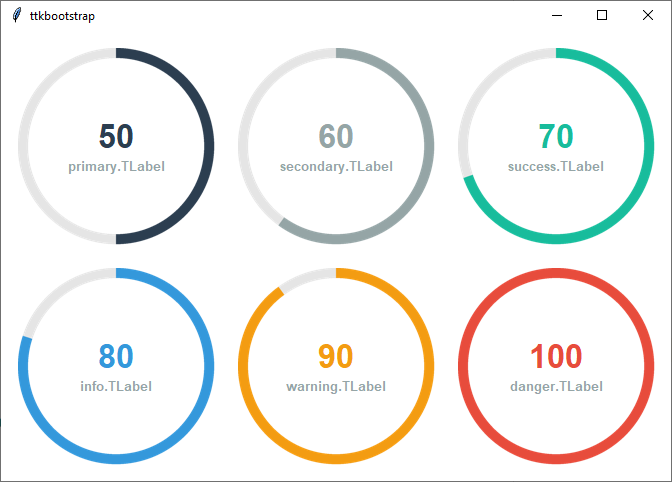
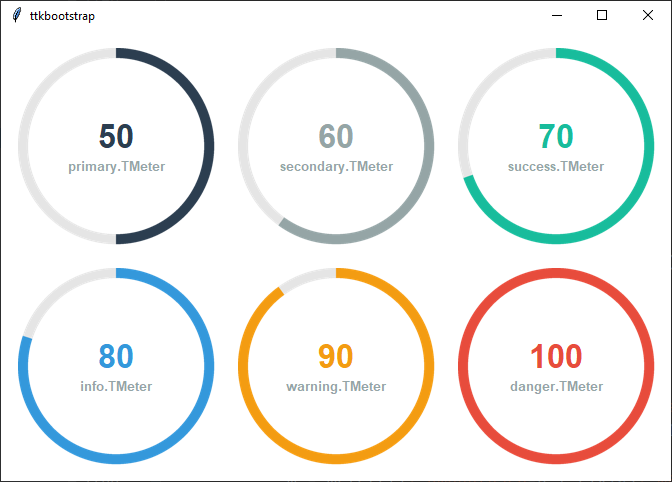
update docs

diff --git a/src/ttkbootstrap/cookbook/dials_and_meters.py b/src/ttkbootstrap/cookbook/dials_and_meters.py
@@ -1,6 +1,6 @@
 """
     Author: Israel Dryer
-    Modified: 2021-05-04
+    Modified: 2021-05-09
 """
 
 from ttkbootstrap import Style
@@ -14,15 +14,15 @@ m1 = Meter(metersize=180, padding=20, amountused=25, metertype='semi', labeltext
 m1.grid(row=0, column=0)
 
 m2 = Meter(metersize=180, padding=20, amountused=1800, amounttotal=2600, labeltext='storage used', textappend='gb',
-           meterstyle='info.TLabel', stripethickness=10, interactive=True)
+           meterstyle='info.TMeter', stripethickness=10, interactive=True)
 m2.grid(row=0, column=1)
 
 m3 = Meter(metersize=180, padding=20, stripethickness=2, amountused=40, labeltext='project capacity', textappend='%',
-           meterstyle='success.TLabel', interactive=True)
+           meterstyle='success.TMeter', interactive=True)
 m3.grid(row=1, column=0)
 
 m4 = Meter(metersize=180, padding=20, amounttotal=280, arcrange=180, arcoffset=-180, amountused=75, textappend='°',
-           labeltext='heat temperature', wedgesize=5, meterstyle='danger.TLabel', interactive=True)
+           labeltext='heat temperature', wedgesize=5, meterstyle='danger.TMeter', interactive=True)
 m4.grid(row=1, column=1)
 
 root.mainloop()

diff --git a/docs/widgets/scripts/widget_screenshots.py b/docs/widgets/scripts/widget_screenshots.py
@@ -1760,10 +1760,10 @@ def screenshot_meter(screenshot_on=True, theme='flatly'):
     n = 50
     for i, c in enumerate(style.colors):
         if i < 3:
-            m = Meter(f1, amountused=n + (i*10), meterstyle=f'{c}.TLabel', labeltext=f'{c}.TLabel')
+            m = Meter(f1, amountused=n + (i*10), meterstyle=f'{c}.TMeter', labeltext=f'{c}.TMeter')
             m.grid(row=0, column=i, padx=10, pady=10)
         else:
-            m = Meter(f1, amountused=n + (i*10), meterstyle=f'{c}.TLabel', labeltext=f'{c}.TLabel')
+            m = Meter(f1, amountused=n + (i*10), meterstyle=f'{c}.TMeter', labeltext=f'{c}.TMeter')
             m.grid(row=1, column=i-3, padx=10, pady=10)
 
     if screenshot_on:
@@ -1960,6 +1960,6 @@ if __name__ == '__main__':
     #     p.start()
     #     p.join()
 
-    screenshot_date_chooser()
+    screenshot_meter()
     # TODO add an application window here to select the type of screenshots I want to do.
 

diff --git a/docs/widgets/meter.rst b/docs/widgets/meter.rst
@@ -15,12 +15,12 @@ This widget is very flexible. The ``metertype`` parameter has two stock settings
 circle and a semi-circle respectively. Customize the arc of the circle with the ``arcrange`` and ``arcoffset``
 parameters. This moves the starting position of the arc and can also be used to make the arc longer or shorter.
 
-The meter color is set with ``meterstyle`` and uses the `TLabel` styles. This also colors the center text. There is an
-optional supplementary label `below` the center text that can be styled with the ``labelstyle`` parameter. This setting
-also formats the text added with ``textappend`` and ``textprepend``.
+The meter color is set with ``meterstyle`` and uses the `TMeter` style class. This also colors the center text. There is
+an optional supplementary label `below` the center text that can be styled with the ``labelstyle`` parameter, which
+excepts a `TLabel` style class. This setting also formats the text added with ``textappend`` and ``textprepend``.
 
-The widget color is `primary` by default. The supplementary label is `secondary` by default. Below is an example of the
-color options.
+The **primary.TMeter** style is applied by default. The base style is further subclassed by each of the theme colors to
+produce the following color and style combinations:
 
 .. image:: images/meter.png
 

diff --git a/docs/widgets/calendar.rst b/docs/widgets/calendar.rst
@@ -6,7 +6,7 @@ The calendar module contains several classes and functions that enable the user 
 
     This is a **style guide** for using ttkbootstrap styles. This guide will show you how to **apply visual styles** to
     change the look and feel of the widget. For more information on how to use the widget and what options are
-    available, consult the :ref:`reference section on widgets <reference:dateentry>`.
+    available, consult the :ref:`reference section on widgets <reference:calendar>`.
 
 Overview
 ========
@@ -118,3 +118,4 @@ Use a custom style
 
     DateEntry(parent, style='custom.TCalendar')
 
+.. _`python style documentation`: https://docs.python.org/3/library/tkinter.ttk.html#ttk-styling

diff --git a/docs/widgets/button.rst b/docs/widgets/button.rst
@@ -25,8 +25,8 @@ The **Link.TButton** has an *info* colored hover effect as well as a slight *shi
 
 How to use
 ==========
-The examples below demonstrate how to *use a style* to create a widget. To learn more about how to *use the widget in
-ttk*, check out the References_ section for links to documentation and tutorials on this widget.
+The examples below demonstrate how to *use a style* when creating a widget. To learn more about how to *use the widget
+in ttk*, check out the References_ section for links to documentation and tutorials on this widget.
 
 Create a default **solid button**
 
